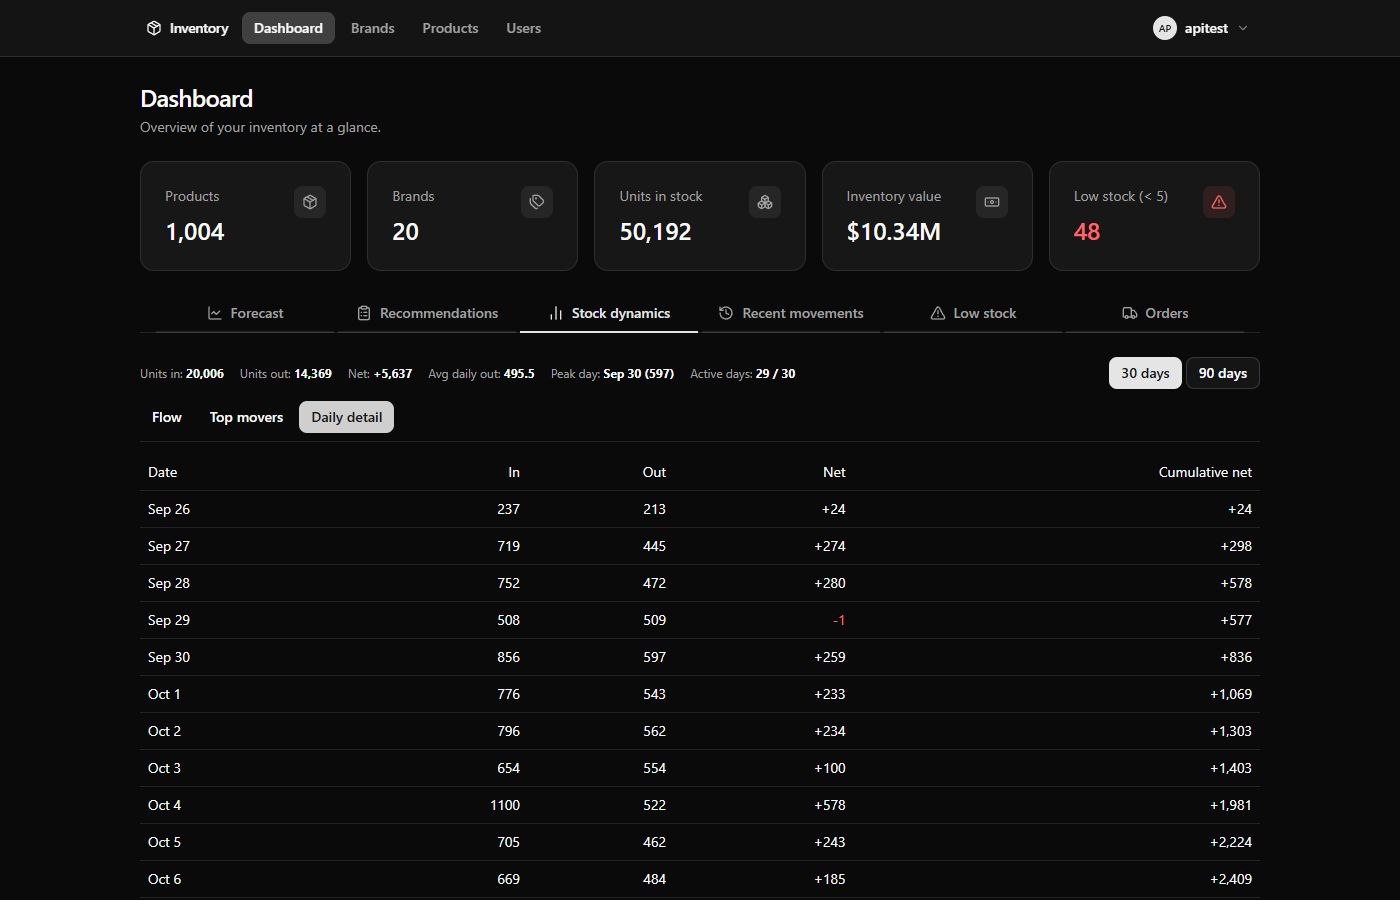
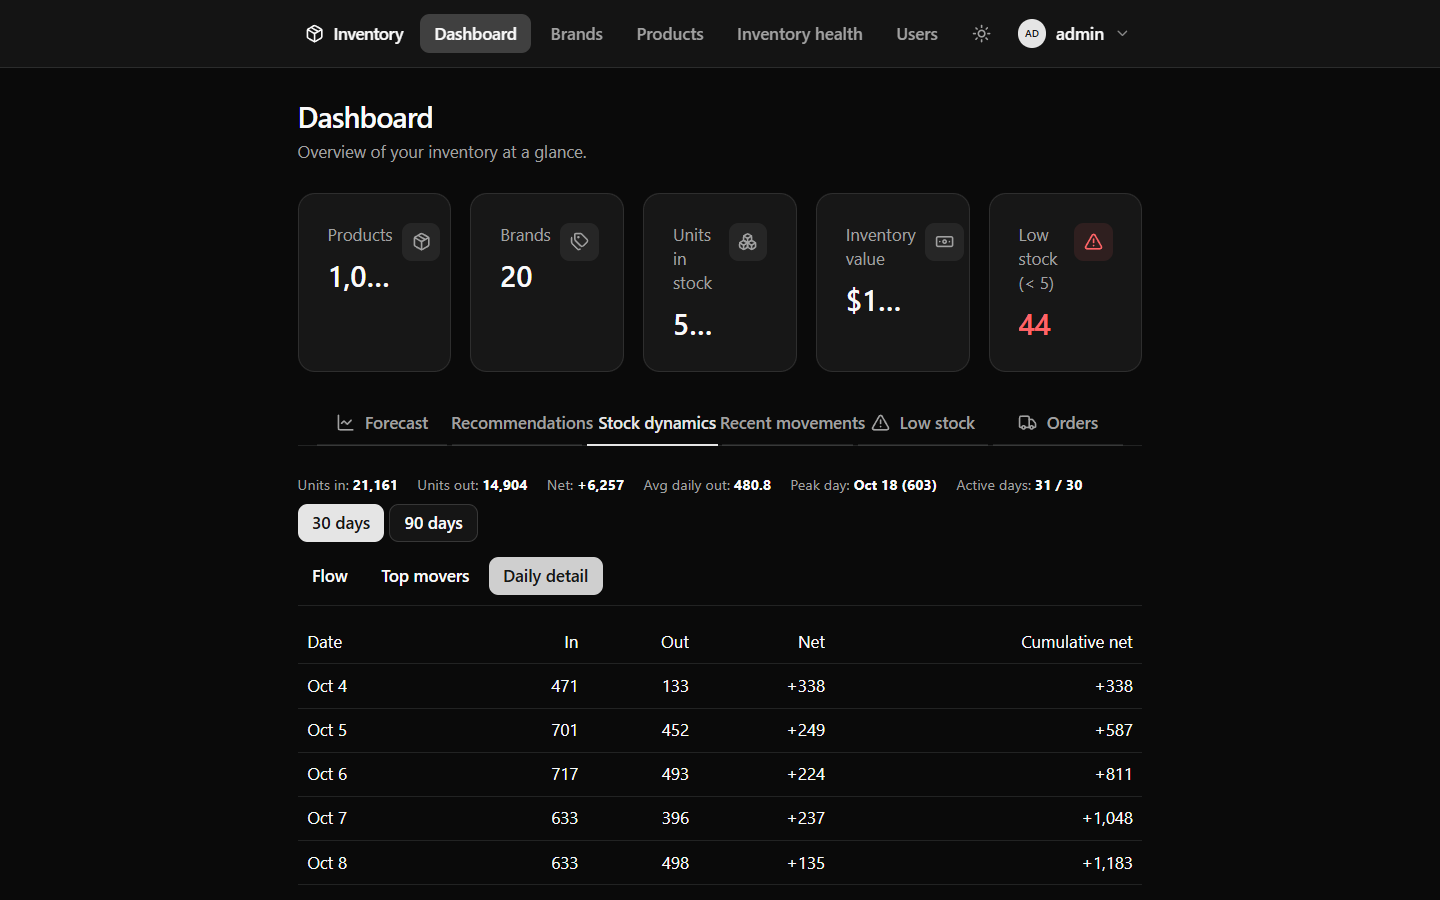
docs: refresh README and dynamics dark screenshot

diff --git a/README.md b/README.md
@@ -13,7 +13,8 @@ A web-based inventory management application built with Python, FastAPI, Postgre
 - User authentication — all pages require sign-in, with a first-run setup for the initial admin account
 - Admin-only user management: create users, change roles, reset passwords, delete accounts — with server-side safety rules
 - View, search, sort, and filter products; CSV export of the inventory
-- Add, edit, and delete products — with per-product **reorder point** and **supplier lead time**
+- **Inventory health report** — every product classified as OUT OF STOCK / LOW STOCK / IN STOCK against its own minimum quantity, with the recommended replenishment quantity, severity ordering, pagination and a CSV export
+- Add, edit, and delete products — with per-product **reorder point**, **minimum quantity** and **supplier lead time**
 - One product per (brand, case-insensitive name) — enforced at the database level
 - Manage brands: add, edit, and delete — brands that still have products cannot be deleted
 - Quick filter: **"Below reorder point"** shows only items whose stock has dipped under their threshold
@@ -42,7 +43,7 @@ A web-based inventory management application built with Python, FastAPI, Postgre
 - **Stock dynamics**: in/out bar chart with a 7-day rolling-average consumption line; **Top movers** leaderboards (biggest restocks / biggest consumption); **Daily detail** table with per-day net and running cumulative balance; 30/90-day period switcher; KPI strip (units in/out, net, avg daily out, peak day, active days)
 - **Low stock** tab: all below-threshold products, paginated, the most depleted first, with reorder point shown
 - **CSV export** of the full movement history
-- Paginated API for every list endpoint (limit/offset/total)
+- Paginated API for every list endpoint (limit/offset/total), including the inventory-health report (page/pages/total); only the CSV exports are full snapshots
 
 ## Technologies
 
@@ -197,7 +198,7 @@ pre-commit install
 - `main.py` — FastAPI JSON backend consumed by the SPA
 - `database.py` — reads `.env` and builds the PostgreSQL connection string
 - `schema.sql` — database schema for a fresh installation
-- `migrations/` — incremental schema changes (002 reorder points, 003 dedup + unique index, 004 orders)
+- `migrations/` — incremental schema changes (002 reorder points, 003 dedup + unique index, 004 orders, 005 min quantity)
 - `frontend/` — React 19 + TypeScript SPA (Vite, Tailwind CSS v4, shadcn/ui, Recharts)
 - `tests/` — pytest test suite (FastAPI API, analytics, orders)
 - `requirements.txt` — runtime dependencies
